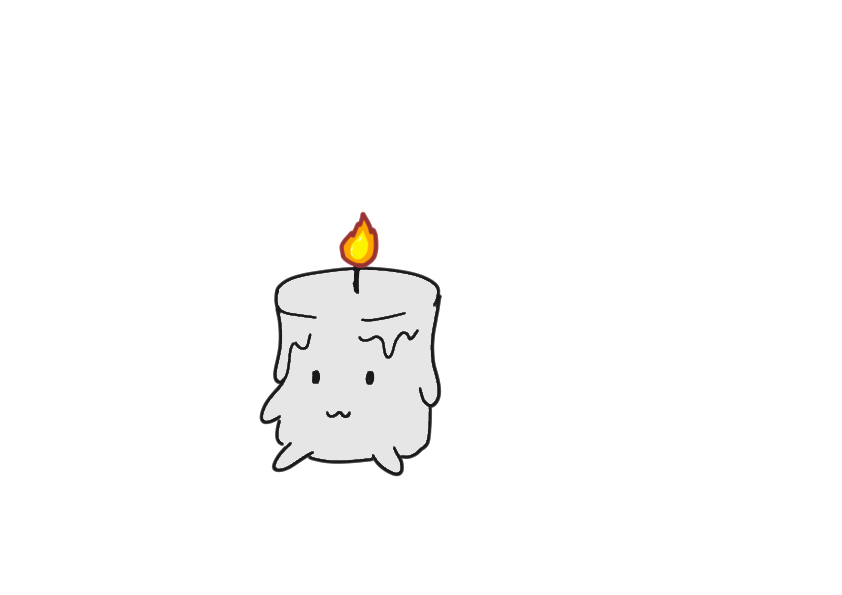
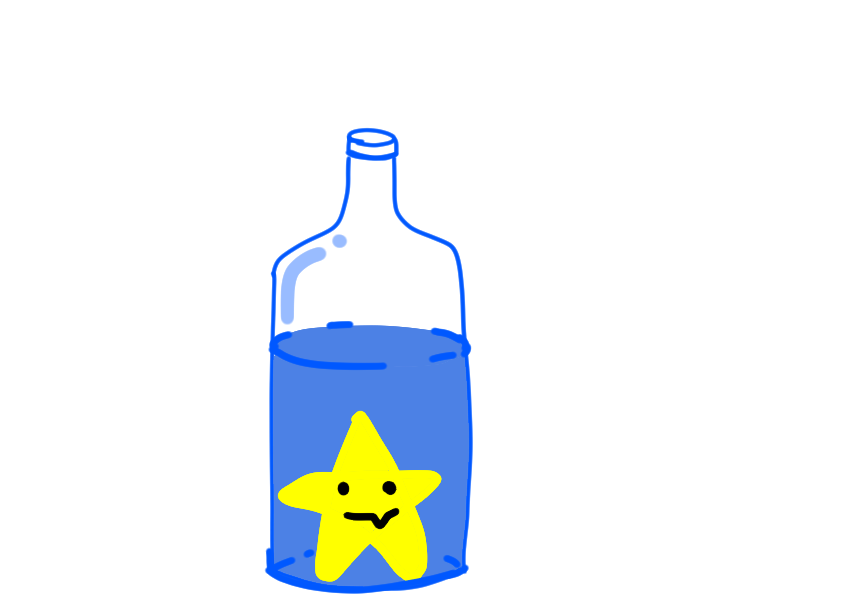
Replace slot 15 art with star-in-bottle, transparent background
From Downloads\イラスト2.png. The bottle's empty glass area reads as
see-through because its hand-drawn outline is open to the outside;
over the game scene this looks like actual glass, so it was kept.
Service worker cache bumped to v9.

Changed region(s): [[0.3088, 0.2118, 0.5867, 0.9983]]

diff --git a/sw.js b/sw.js
@@ -1,4 +1,4 @@
-const CACHE_NAME = 'wakemon-cache-v8';
+const CACHE_NAME = 'wakemon-cache-v9';
 const APP_SHELL = [
   './',
   './index.html',
